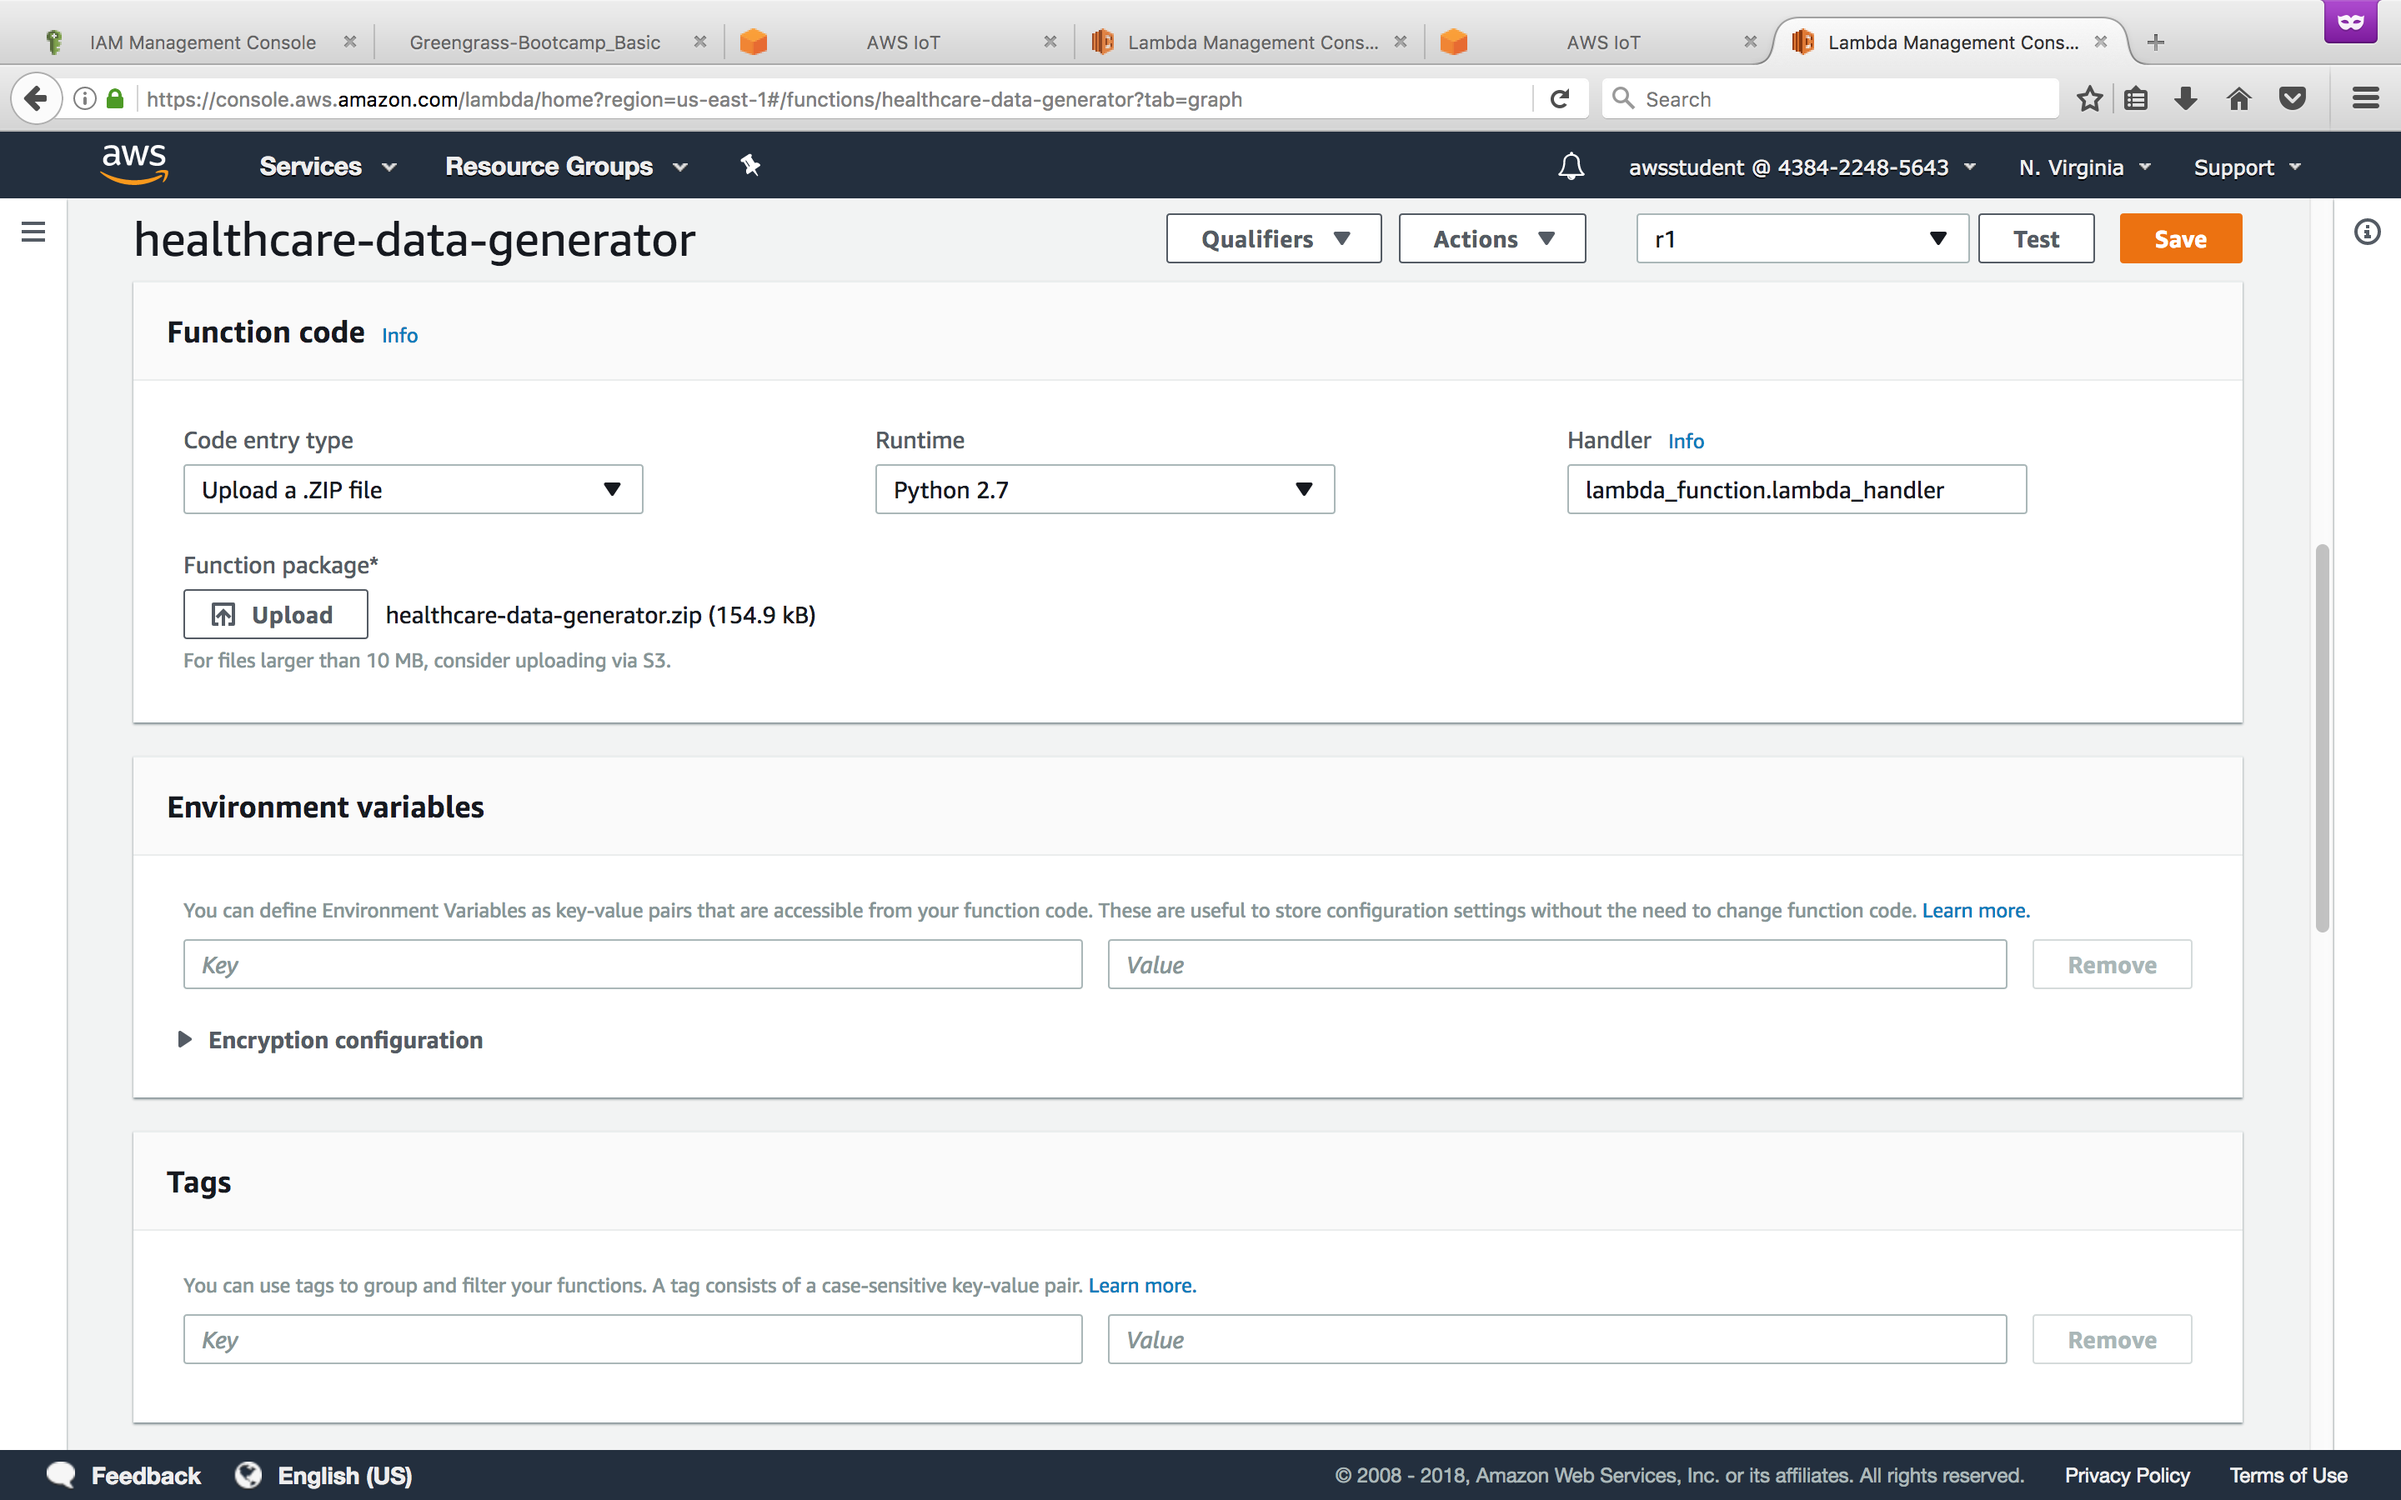
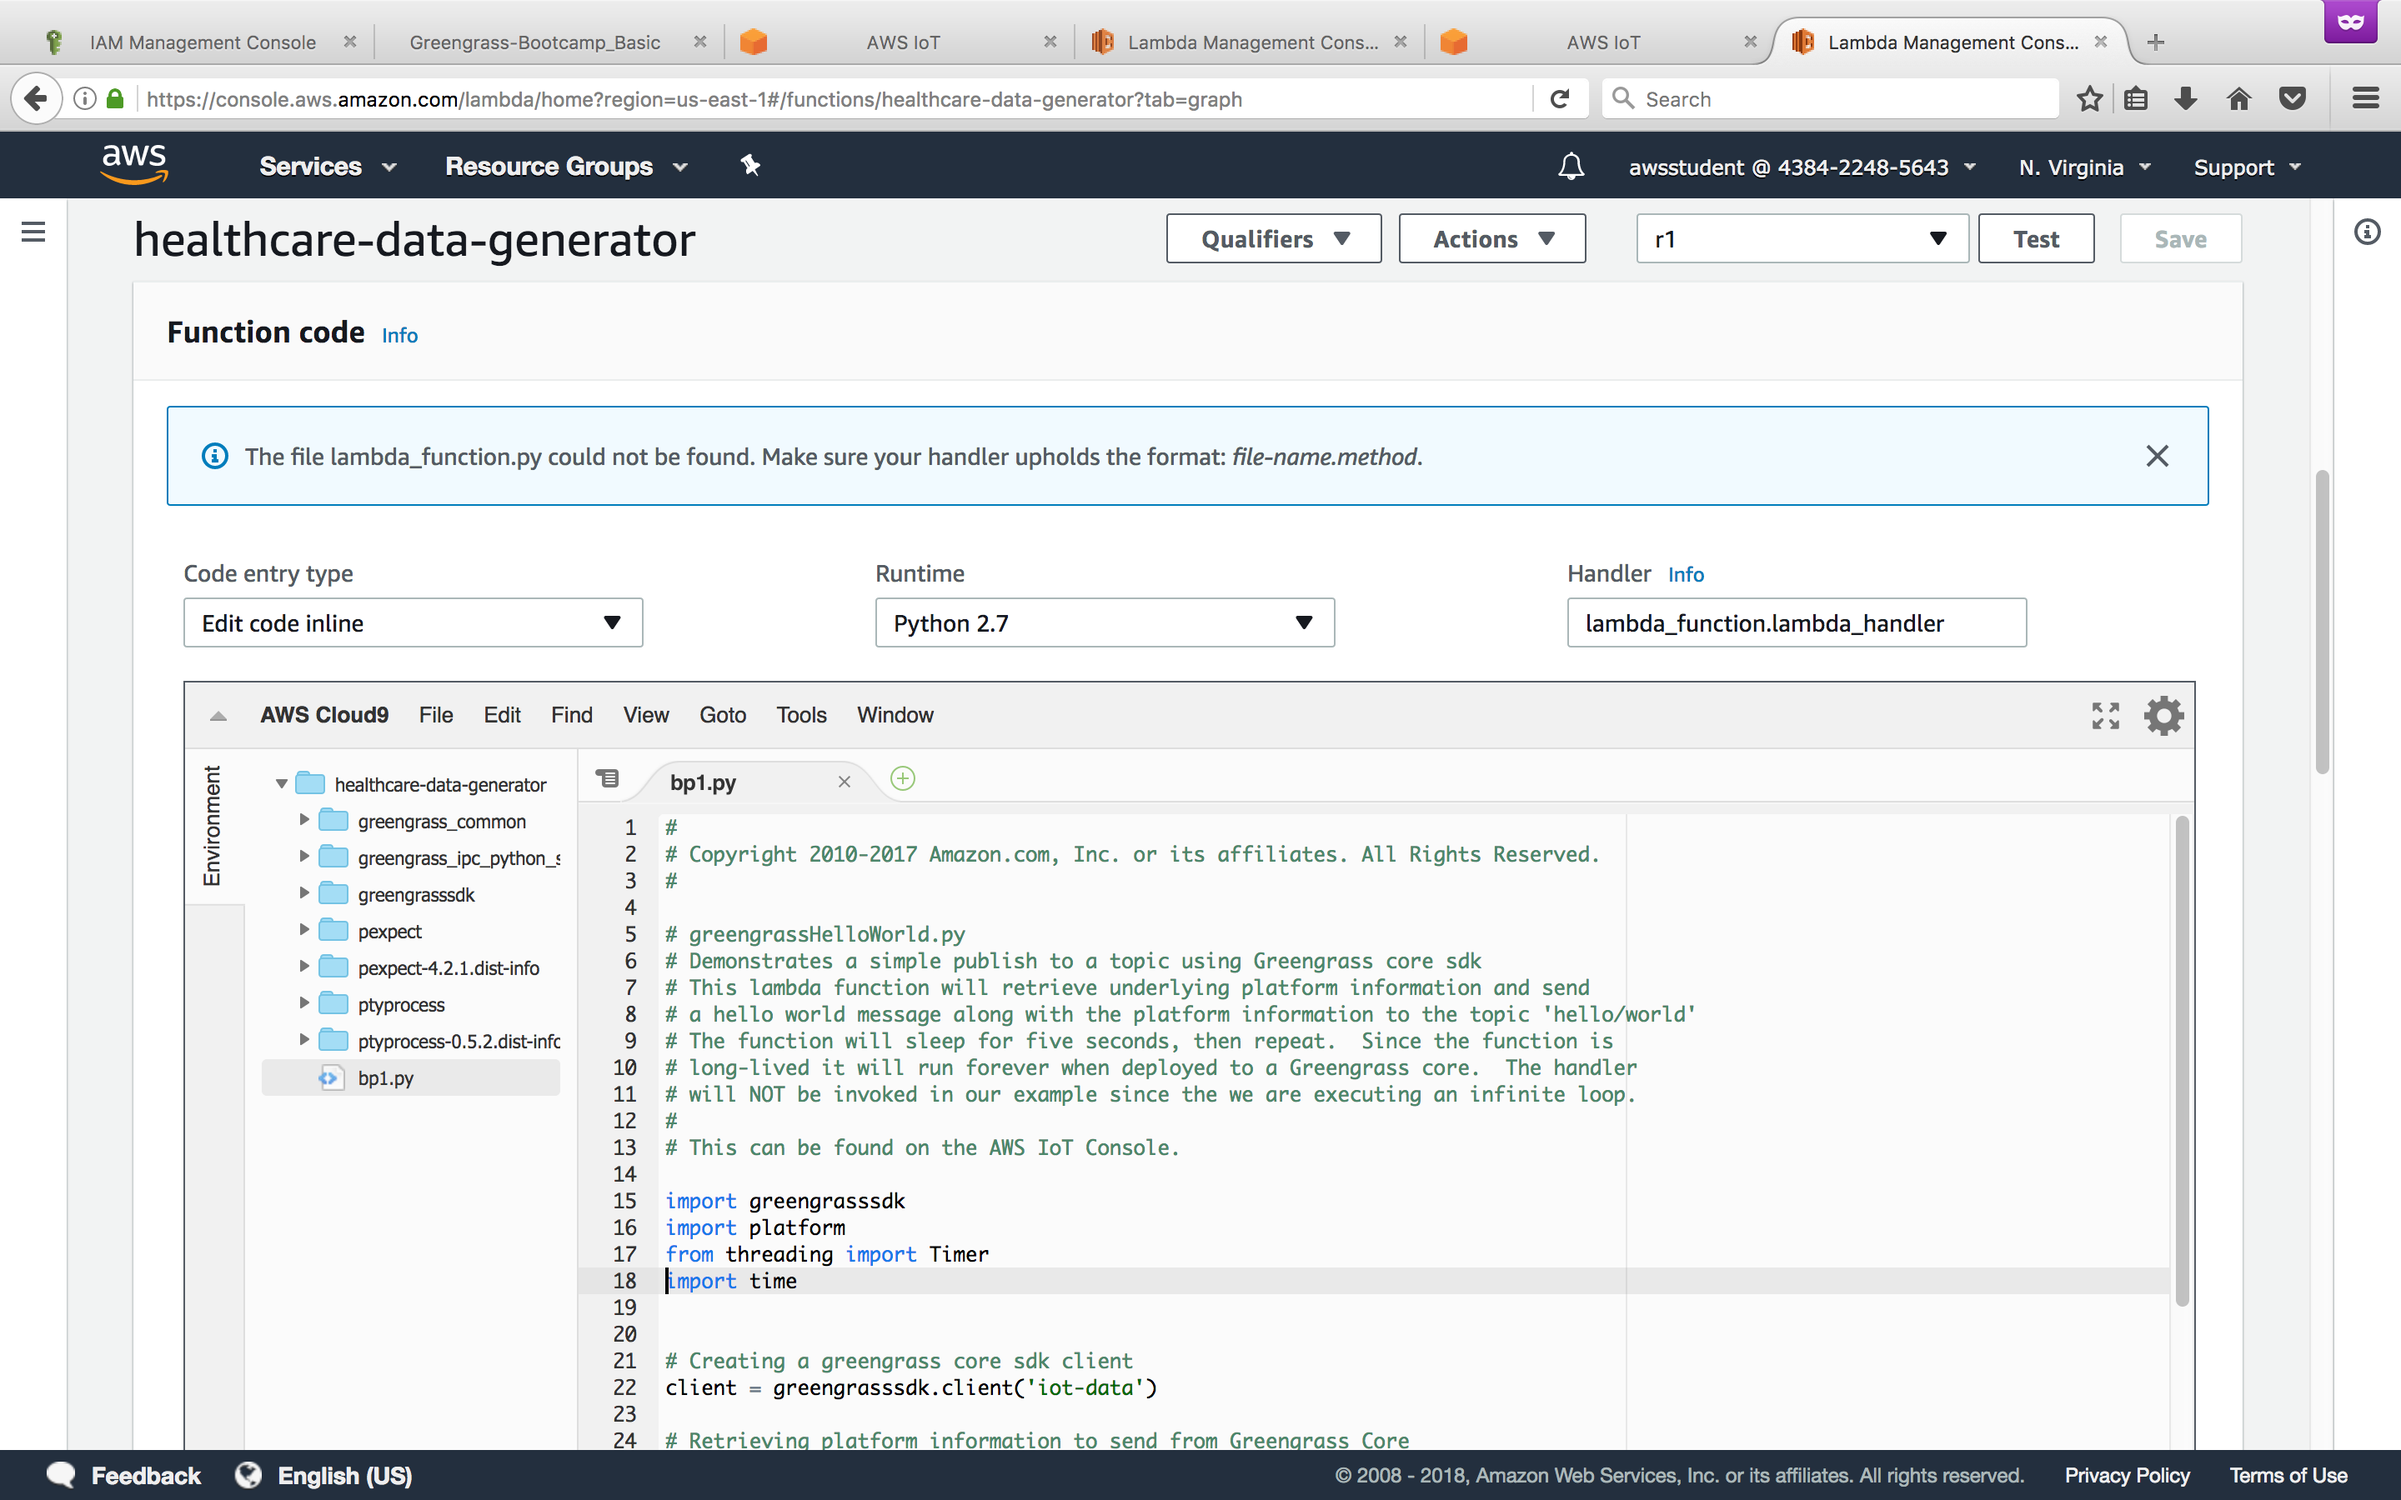
a

diff --git a/README.md b/README.md
@@ -91,29 +91,17 @@ Now we are going to create a Lambda function that we will deploy to our Raspberr
 
 ![screen](/images/lambda/03.png) 
 
-### Step #4: 
+### Step #4: Click "Upload" and select the .ZIP file downloaded in the previous step and then click "Save"
 ![screen](/images/lambda/04.png) 
 
-### Step #5: 
+### Step #5: Select "Edit code line" in "Code entry type" to see the Lambda code
 ![screen](/images/lambda/05.png) 
 
-### Step #6: 
+### Step #6: Click "Actions -> Publish new version" 
 ![screen](/images/lambda/06.png) 
 
-### Step #7: 
+### Step #7: Name it "v1" and done! 
 ![screen](/images/lambda/07.png) 
-
-### Step #8: 
-![screen](/images/lambda/08.png) 
-
-### Step #9: 
-![screen](/images/lambda/09.png) 
-
-### Step #10: 
-![screen](/images/lambda/10.png) 
-
-### Step #11: 
-![screen](/images/lambda/11.png) 
 
 
 ## 3.Create Greengrass Group
